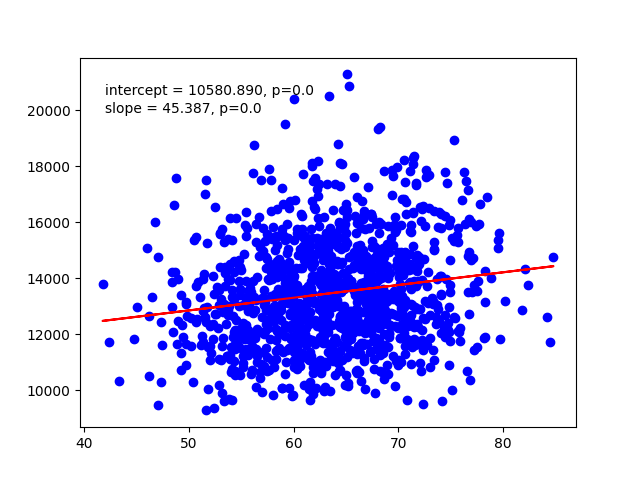
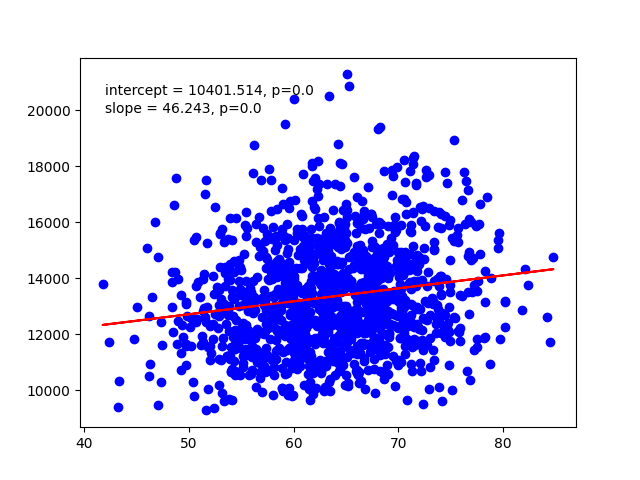
Session 12-13

diff --git a/analysis/generate_session_data.py b/analysis/generate_session_data.py
@@ -6,26 +6,23 @@ from generate_lm import generate_lm
 from generate_rolling import generate_rolling
 
 
-session_ID = "n"
+session_ID = "13"
 
-for i in range(12, 13):
-    session_ID = str(i)
-
-    localStorage_to_raw(session_ID)
-    raw_to_session(session_ID)
-    generate_text_summary(session_ID)
-    for i in range(10, 51, 10):
-        generate_rolling(session_ID, i)
-    generate_lm(
-        predictor="Total Mistakes",
-        response="Total Time Taken (ms)",
-        session_ID=session_ID,
-        output_folder_name="time_given_mistakes",
-    )
-    generate_lm(
-        predictor="Layout Difficulty",
-        response="Total Time Taken (ms)",
-        session_ID=session_ID,
-        output_folder_name="time_given_diff",
-    )
-    generate_plots(session_ID=session_ID)
+localStorage_to_raw(session_ID)
+raw_to_session(session_ID)
+generate_text_summary(session_ID)
+for i in range(10, 51, 10):
+    generate_rolling(session_ID, i)
+generate_lm(
+    predictor="Total Mistakes",
+    response="Total Time Taken (ms)",
+    session_ID=session_ID,
+    output_folder_name="time_given_mistakes",
+)
+generate_lm(
+    predictor="Layout Difficulty",
+    response="Total Time Taken (ms)",
+    session_ID=session_ID,
+    output_folder_name="time_given_diff",
+)
+generate_plots(session_ID=session_ID)

diff --git a/analysis/generate_agg_data.py b/analysis/generate_agg_data.py
@@ -103,7 +103,7 @@ def generate_agg_data(sessions):
     print("Aggregate data generated successfully.")
 
 
-upr = 13
+upr = 14
 
 generate_agg_data([str(i) for i in range(1, upr)])
 generate_lm(
